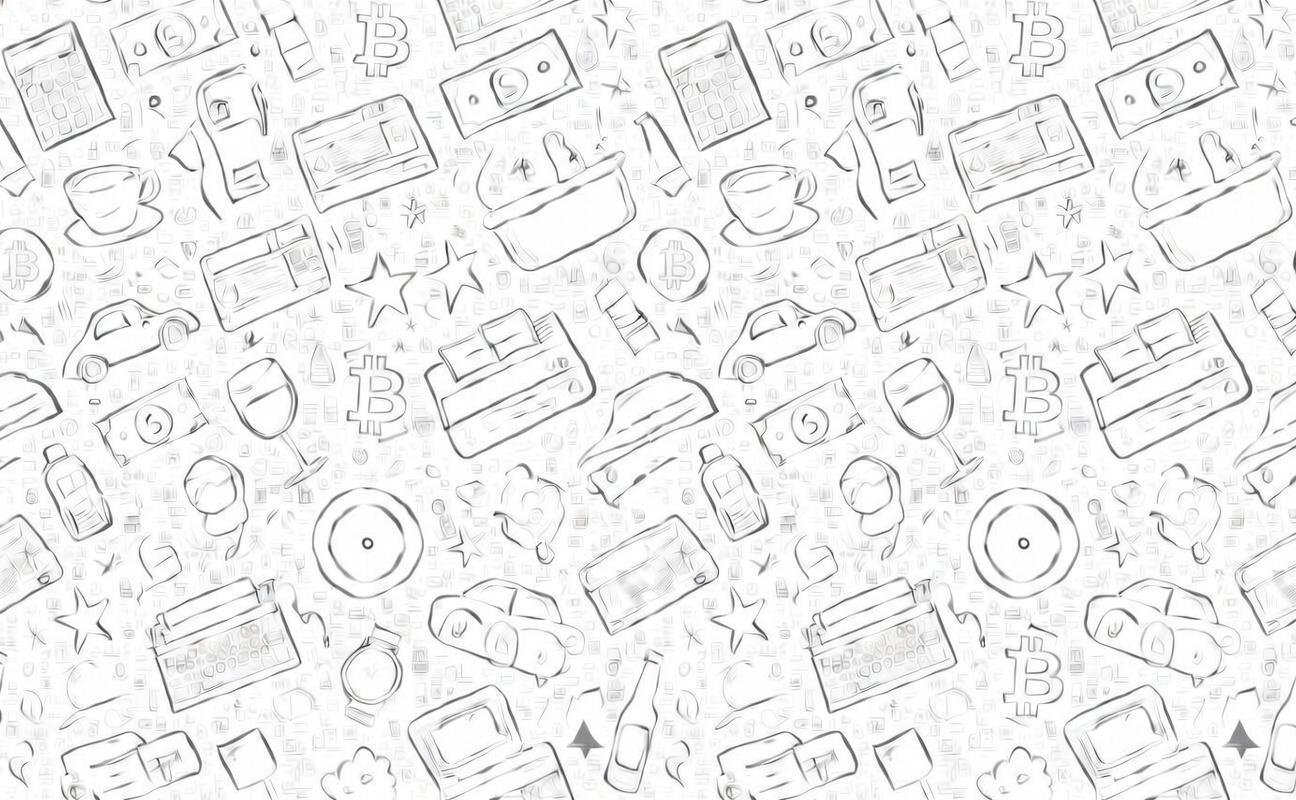
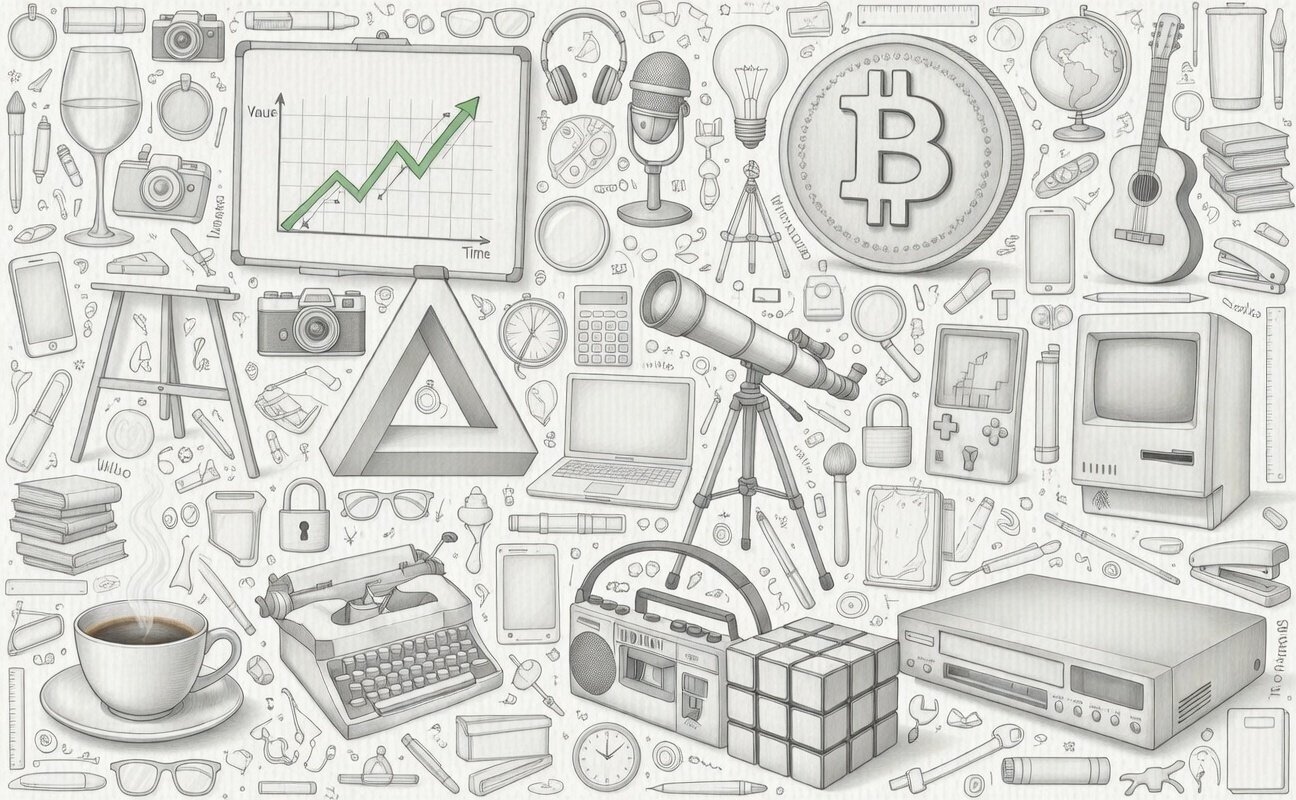
update bkg image

diff --git a/ui/app.py b/ui/app.py
@@ -16,6 +16,15 @@ from fastapi.responses import PlainTextResponse, Response, StreamingResponse
 from fastapi.staticfiles import StaticFiles
 from pydantic import BaseModel
 
+
+class NoCacheStaticFiles(StaticFiles):
+    """Static files with Cache-Control so browsers revalidate (e.g. after background image changes)."""
+
+    async def get_response(self, path: str, scope):
+        response = await super().get_response(path, scope)
+        response.headers["Cache-Control"] = "no-cache, must-revalidate"
+        return response
+
 DRAFT_ROOT = Path(__file__).resolve().parent.parent
 DOC_SOURCES_DIR = ".doc_sources"
 VAULT_DIR = "vault"
@@ -766,5 +775,5 @@ def api_doc(repo: str, path: str):
         raise HTTPException(status_code=404, detail="Not found")
 
 
-app.mount("/assets", StaticFiles(directory=Path(__file__).parent / "assets"), name="assets")
+app.mount("/assets", NoCacheStaticFiles(directory=Path(__file__).parent / "assets"), name="assets")
 app.mount("/", StaticFiles(directory=Path(__file__).parent / "static", html=True), name="static")
